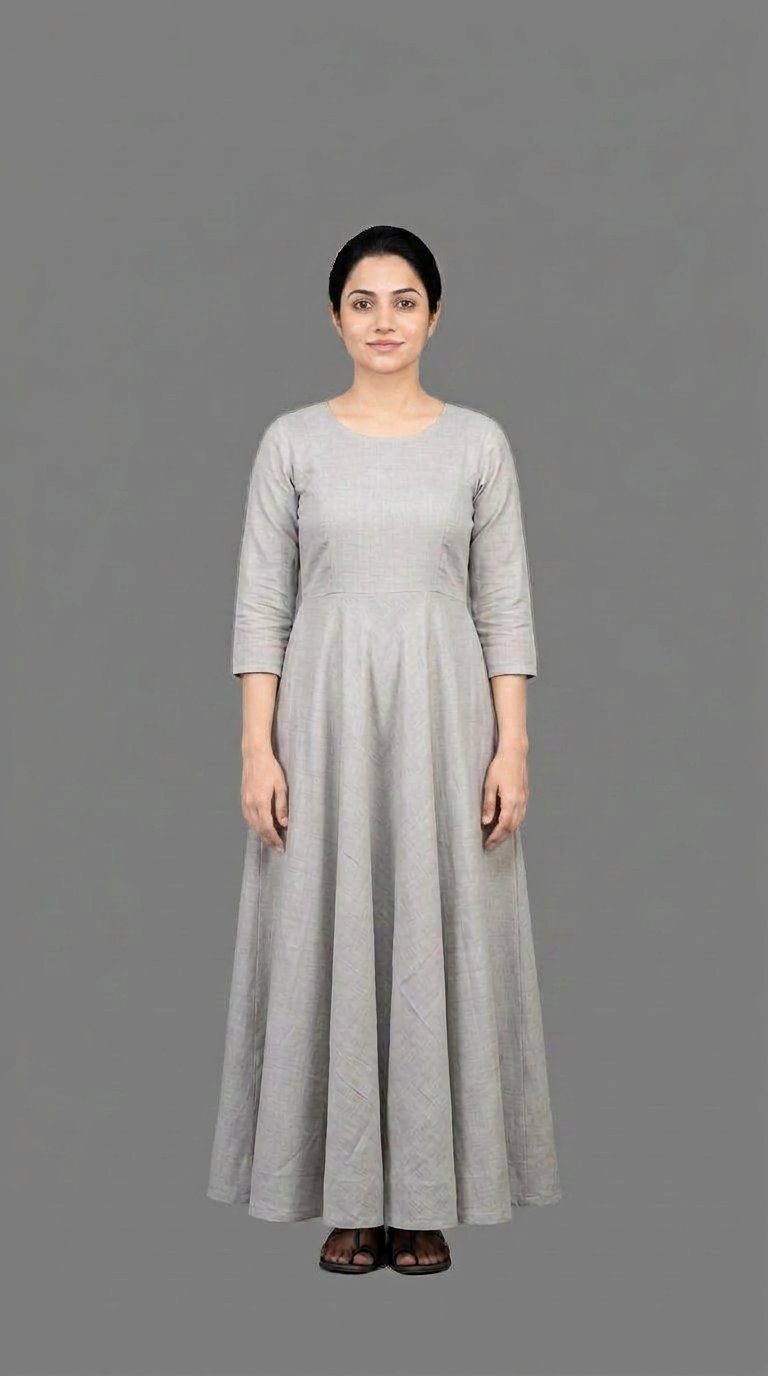
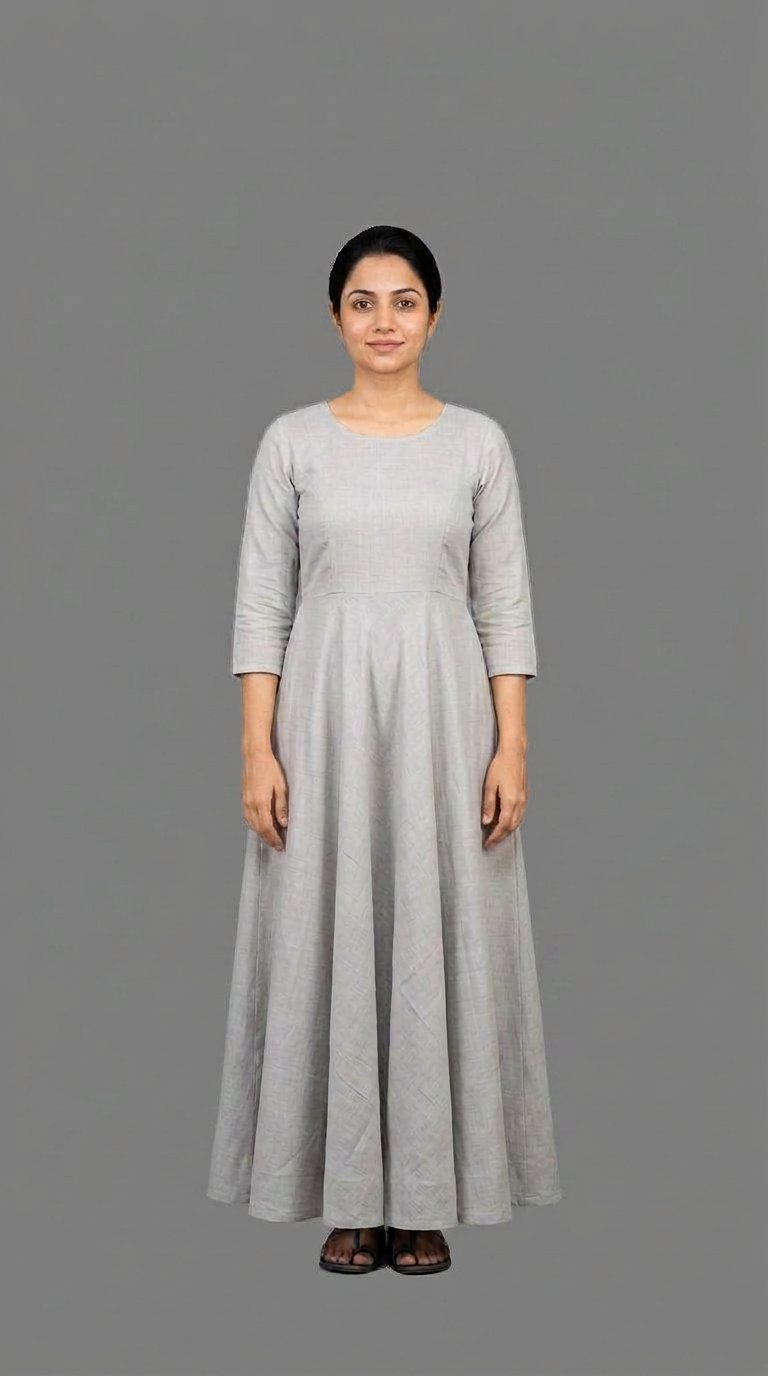
retone: M7 ebony, M3+M9 deep, W4 ebony, W3 light-warm, M10 first 4 tones; M13/deep regenerated but reverted as worse (lum 147.7); QC queue narrowed to 3

Changed region(s): [[0.4375, 0.1875, 0.5625, 0.3125], [0.625, 0.4688, 0.6875, 0.625], [0.3125, 0.4688, 0.375, 0.625]]

diff --git a/template/README.md b/template/README.md
@@ -54,18 +54,20 @@ Tone anchors (target face-patch luminance): fair 174, light-warm 158, light-tan 
 medium-brown 111, deep 80, ebony 67.
 
 ### Counts
-- 86 of 192 tone images are derived from a clean base; **80 of those pass all six checks**.
-- **112 generations remain** = 106 stale/never-generated + 6 QC re-dos.
+- **87 of 192 tone images pass all six checks.**
+- **105 generations remain** = 102 stale/never-generated + 3 tone re-dos.
 
-### QC re-do queue (present but tone is off)
+### QC re-do queue (present but tone/ladder off)
 | file | issue |
 |---|---|
-| `ebony/M7-kurta-dhoti.jpg` | 41.5 vs anchor 67 (-25, overshot to near-black) |
-| `deep/M9-sherwani.jpg` | 66.8 vs anchor 80 (-13; its ebony is fine - neighbours collided) |
-| `deep/M3-two-piece-suit.jpg` | 70.2 vs anchor 80, only 1.3 from ebony |
-| `deep/M13-casual-coord.jpg` | 59.5 vs anchor 80 (-20; darker than its own ebony) |
-| `ebony/W4-salwar-suit.jpg` | 72.4, only 5.8 from deep |
-| `light-warm/W3-anarkali.jpg` | 176.5 vs anchor 158 (+18, collides with fair) |
+| `ebony/M7-kurta-dhoti.jpg` | re-done once: near-black 41.5 -> overshot light to 80.8, now collides with its `deep` (81.3). Needs ~67 |
+| `deep/M13-casual-coord.jpg` | 59.5 vs anchor 80. One regeneration was WORSE (147.7, came out light-tan) and was reverted; re-do gently ("slightly lighter, keep clearly deep") |
+| `fair/M10-bandhgala.jpg` | 158.2 vs anchor 174 (-16, reads as light-warm); whole M10 light end came out ~12 pts dark |
+| `ebony/W4-salwar-suit.jpg` | accepted at 8.0 gap to deep (improved from 5.8) - borderline, revisit only if time allows |
+
+### Still stale (fabric glitch inherited from pre-fix bases)
+`deep` and `ebony` of M10 were never regenerated and must be replaced for glitch reasons even though
+their tone numbers happen to be on-anchor.
 
 ### Remaining stale / never-generated (106)
 M10, M11, M15, W1, W2 (6 tones each = 36), W5 (4), W6-W17 (12 sets x 6 = 72, incl. overwriting
